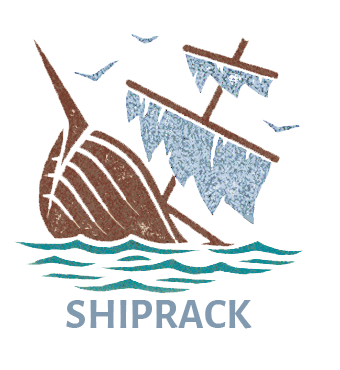
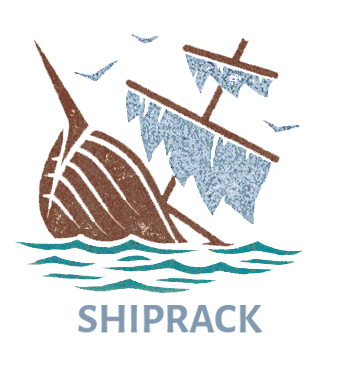
update commit

Changed region(s): [[0.1765, 0.8027, 0.7647, 0.9216]]

diff --git a/resources/views/lacak.blade.php b/resources/views/lacak.blade.php
@@ -3,6 +3,7 @@
     <meta charset="utf-8">
     <meta http-equiv="X-UA-Compatible" content="IE=edge">
     <title>Ship Tracker</title>
+    <meta http-equiv="Content-Security-Policy" content="upgrade-insecure-requests">
     <meta name="description" content="Sufee Admin - HTML5 Admin Template">
     <meta name="viewport" content="width=device-width, initial-scale=1">
     <link rel="apple-touch-icon" href="apple-icon.png">
@@ -29,7 +30,7 @@
                 <button class="navbar-toggler" type="button" data-toggle="collapse" data-target="#main-menu" aria-controls="main-menu" aria-expanded="false" aria-label="Toggle navigation">
                     <i class="fa fa-bars"></i>
                 </button>
-                <a class="navbar-brand" href=""><img class="user-avatar rounded-circle" src="{{ asset('style/images/ship.png') }}"></a>
+                <a class="navbar-brand" href=""><img class="user-avatar rounded-circle" src="{{ asset('style/images/shiprack2.png') }}"></a>
                 <a class="navbar-brand hidden" href="">SR</a>
             </div>
 
